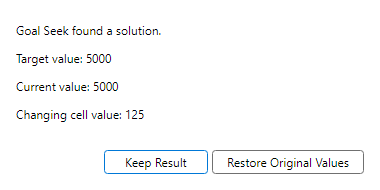
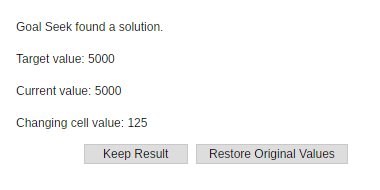
Fix FreeX Wave125 Goal Seek parity capture

diff --git a/tests/FreeX.App.Avalonia.Tests/ParityCaptureTests.cs b/tests/FreeX.App.Avalonia.Tests/ParityCaptureTests.cs
@@ -83,6 +83,91 @@ public sealed class ParityCaptureTests
     }
 
     [Fact]
+    public void LinuxParityCaptureHarness_UsesBoundedForegroundContainerContract()
+    {
+        var source = ReadLinuxParityCaptureHarnessSource();
+
+        source.Should().Contain("--entrypoint /bin/bash");
+        source.Should().Contain("$Image /work/container-run.sh");
+        source.Should().Contain("timeout --signal=TERM --kill-after=5s");
+        source.Should().Contain("capture_validated=true");
+        source.Should().Contain("docker stop --time 5 $name");
+        source.Should().Contain("docker rm -f $name");
+        source.Should().NotContain("$Image bash /work/container-run.sh");
+    }
+
+    [Fact]
+    public void LinuxParityCaptureHarness_RejectsUnsafeSurfaceIdsBeforeBashExpansion()
+    {
+        var source = ReadLinuxParityCaptureHarnessSource();
+
+        source.Should().Contain("$SurfaceId -notmatch '^[A-Za-z0-9][A-Za-z0-9._-]{0,127}$'");
+        source.Should().Contain("$validatedSurfaceId = $SurfaceId");
+        source.Should().Contain("$targetPngFileName = \"$validatedSurfaceId.png\"");
+        source.Should().Contain("$runScript = $runScript.Replace('__SURFACE__', $validatedSurfaceId)");
+        source.Should().Contain("$runScript = $runScript.Replace('__TARGET_PNG__', $targetPngFileName)");
+        source.Should().Contain("rm -f /work/manifest.json /work/__TARGET_PNG__ /work/run-result.txt");
+        source.Should().NotContain("rm -f /work/manifest.json /work/dialog.GoalSeekStatus.png");
+    }
+
+    [Fact]
+    public void LinuxParityCaptureHarness_RequiresExactValidationResultMarkers()
+    {
+        var source = ReadLinuxParityCaptureHarnessSource();
+
+        source.Should().Contain("$resultLines -contains \"app_exit=0\"");
+        source.Should().Contain("$resultLines -contains \"capture_validated=true\"");
+        source.Should().Contain("Capture container did not report app_exit=0 and capture_validated=true.");
+        source.Should().Contain("if (-not (Test-Path -LiteralPath $resultPath -PathType Leaf))");
+    }
+
+    [Fact]
+    public async Task TargetedGoalSeekStatusCapture_WritesNonBlank380x190Png()
+    {
+        var outputDirectory = Path.Combine(
+            Path.GetTempPath(),
+            "freex-goalseek-status-capture-" + Guid.NewGuid().ToString("N"));
+
+        try
+        {
+            await Session.Dispatch(async () =>
+            {
+                var window = new MainWindow([]);
+                try
+                {
+                    window.Show();
+                    window.Measure(new global::Avalonia.Size(1120, 720));
+                    window.Arrange(new global::Avalonia.Rect(0, 0, 1120, 720));
+                    window.UpdateLayout();
+
+                    var results = await window.CaptureParitySurfacesAsync(
+                        outputDirectory,
+                        targetSurfaceId: "dialog.GoalSeekStatus");
+
+                    results.Should().ContainSingle(result => result.Id == "dialog.GoalSeekStatus");
+                    var result = results.Single();
+                    result.Captured.Should().BeTrue(result.Note);
+
+                    var pngPath = Path.Combine(outputDirectory, result.PngFileName);
+                    AssertCapturedPng(outputDirectory, result);
+                    ReadPngDimensions(pngPath).Should().Be((380, 190));
+                    new FileInfo(pngPath).Length.Should().BeGreaterThan(1000,
+                        "the targeted dialog PNG must contain rendered content, not only a minimal blank frame");
+                }
+                finally
+                {
+                    if (window.IsVisible)
+                        window.Close();
+                }
+            }, CancellationToken.None);
+        }
+        finally
+        {
+            TryDeleteDirectory(outputDirectory);
+        }
+    }
+
+    [Fact]
     public void InteractionDialogRoutes_MapEveryAuthoritativeCatalogRow()
     {
         var catalog = InteractionSurfaceCatalog.Dialogs;
@@ -796,6 +881,16 @@ public sealed class ParityCaptureTests
         }
 
         return starts;
+    }
+
+    private static string ReadLinuxParityCaptureHarnessSource()
+    {
+        var directory = new DirectoryInfo(AppContext.BaseDirectory);
+        while (directory is not null && !File.Exists(Path.Combine(directory.FullName, "FreeX.slnx")))
+            directory = directory.Parent;
+
+        directory.Should().NotBeNull("the test output should remain inside the repository");
+        return File.ReadAllText(Path.Combine(directory!.FullName, "tools", "Run-LinuxParityCapture.ps1"));
     }
 
     private static void TryDeleteDirectory(string path)

diff --git a/docs/parity/dialog-visual-evidence-summary.md b/docs/parity/dialog-visual-evidence-summary.md
@@ -62,7 +62,6 @@ Outliers are ranked by a deterministic triage score: normalized 32x32 ARGB sampl
 
 | Surface id | WPF logical size | Avalonia logical size | Raw PNG sizes | Bucket | Evidence flag | Score | Sample delta | Luma delta | Non-bg delta |
 | --- | ---: | ---: | --- | --- | --- | ---: | ---: | ---: | ---: |
-| dialog.GoalSeekStatus | 380x190 | 380x190 | 380x190 px @ 96 DPI vs 380x190 px @ 96 DPI |  |  | 0.089 | 0.029 | 0.012 | 0.047 |
 | dialog.AddWatch | 360x170 | 360x170 | 540x255 px @ 144 DPI vs 360x170 px @ 96 DPI |  |  | 0.088 | 0.054 | 0.000 | 0.033 |
 | dialog.FormatCells.Alignment | 620x540 | 620x540 | 620x540 px @ 96 DPI vs 620x540 px @ 96 DPI |  |  | 0.087 | 0.015 | 0.006 | 0.065 |
 | dialog.CreateTable | 360x190 | 360x190 | 540x285 px @ 144 DPI vs 360x190 px @ 96 DPI |  |  | 0.086 | 0.040 | 0.004 | 0.041 |
@@ -72,6 +71,7 @@ Outliers are ranked by a deterministic triage score: normalized 32x32 ARGB sampl
 | dialog.AllowEditRanges | 430x420 | 430x420 | 430x420 px @ 96 DPI vs 430x420 px @ 96 DPI |  |  | 0.079 | 0.022 | 0.014 | 0.042 |
 | dialog.Sparkline | 380x280 | 380x280 | 380x280 px @ 96 DPI vs 380x280 px @ 96 DPI |  |  | 0.077 | 0.054 | 0.001 | 0.022 |
 | dialog.SelectDataSource | 620x500 | 620x500 | 930x750 px @ 144 DPI vs 620x500 px @ 96 DPI |  |  | 0.075 | 0.036 | 0.006 | 0.033 |
+| dialog.ConditionalFormatManage | 560x420 | 560x420 | 840x630 px @ 144 DPI vs 560x420 px @ 96 DPI |  |  | 0.074 | 0.045 | 0.000 | 0.028 |
 
 ## Scale-Aware Dimension Mismatch Details
 
@@ -119,7 +119,7 @@ These rows have a DPI-normalized checked-in PNG size that disagrees with the dia
 | dialog.FormatCells.Protection | dialog.FormatCells.Protection.png | 620x540 | 620x540 px @ 96 DPI | True | dialog.FormatCells.Protection.png | 620x540 | 620x540 px @ 96 DPI | True | True | 0.015 |
 | dialog.FormatChartArea | dialog.FormatChartArea.png | 420x590 | 630x885 px @ 144 DPI | True | dialog.FormatChartArea.png | 420x590 | 420x590 px @ 96 DPI | True | True | 0.060 |
 | dialog.GoalSeek | dialog.GoalSeek.png | 380x210 | 380x210 px @ 96 DPI | True | dialog.GoalSeek.png | 380x210 | 380x210 px @ 96 DPI | True | True | 0.054 |
-| dialog.GoalSeekStatus | dialog.GoalSeekStatus.png | 380x190 | 380x190 px @ 96 DPI | True | dialog.GoalSeekStatus.png | 380x190 | 380x190 px @ 96 DPI | True | True | 0.089 |
+| dialog.GoalSeekStatus | dialog.GoalSeekStatus.png | 380x190 | 380x190 px @ 96 DPI | True | dialog.GoalSeekStatus.png | 380x190 | 380x190 px @ 96 DPI | True | True | 0.037 |
 | dialog.GoTo | dialog.GoTo.png | 420x320 | 420x320 px @ 96 DPI | True | dialog.GoTo.png | 420x320 | 420x320 px @ 96 DPI | True | True | 0.066 |
 | dialog.GoToSpecial | dialog.GoToSpecial.png | 430x438 | 430x438 px @ 96 DPI | True | dialog.GoToSpecial.png | 430x438 | 430x438 px @ 96 DPI | True | True | 0.034 |
 | dialog.HeaderFooterDialog | dialog.HeaderFooterDialog.png | 760x600 | 760x600 px @ 96 DPI | True | dialog.HeaderFooterDialog.png | 760x600 | 760x600 px @ 96 DPI | True | True | 0.034 |

diff --git a/docs/parity/avalonia-parity-wave125-freex-goalseek-capture-20260803.md b/docs/parity/avalonia-parity-wave125-freex-goalseek-capture-20260803.md
@@ -1,0 +1,53 @@
+# Avalonia Parity Wave125: FreeX Goal Seek Status Capture
+
+Date: 2026-08-03
+
+## Diagnosis and fix
+
+The current Avalonia source route was valid: `MainWindow.ParityCapture.cs`
+selects `dialog.GoalSeekStatus` and opens the fixture-backed
+`ShowGoalSeekStatusParityDialogAsync` route. A focused headless behavior test
+now proves that this route writes one nonblank `380x190` PNG.
+
+Wave124's Linux attempts failed in the container wrapper. The reusable
+`freex-linux-interactive:ubuntu24.04` image has
+`/usr/local/bin/freex-linux-interactive` as its entrypoint, so passing
+`bash /work/container-run.sh` after the image did not run the capture script.
+The fixed runner uses an explicit `/bin/bash` entrypoint and invokes the mounted
+script directly. It runs `xvfb-run` and the app in the foreground, keeps the
+app/Xvfb log, validates the app exit, manifest, PNG signature, nonblank size,
+and dimensions, and enforces a 120-second timeout. Cleanup stops and removes
+only the exact unique container name supplied to that run.
+
+## Fresh evidence
+
+- Exact container: `freex-wave125-goalseek-capture-20260803-avalonia-r5`
+- App exit: `0`
+- Capture: nonblank `380x190` PNG at 96 DPI
+- Manifest: one captured `dialog.GoalSeekStatus` surface
+- Scratch run directories: removed after promotion
+- Promoted PNG: `docs/parity/dialog-visual-assets/avalonia-capture/dialog.GoalSeekStatus.png`
+- Promoted metadata: `docs/parity/dialog-visual-assets/avalonia-capture/manifest.json`
+
+The current-source WPF/Avalonia comparer reports `2.0871075708061%` mean
+pixel difference for the paired surface. Wave124's recorded baseline was
+`3.255188%`, an improvement of `1.1680804291939` percentage points, or
+`35.8836549284987%` relative. The regenerated dialog summary reports matching
+logical and raw dimensions, `isNonBlank=true` on both sides, a triage score of
+`0.036590`, and zero visual-review candidates across all 94 paired surfaces.
+
+## Verification
+
+- Focused `ParityCaptureTests`: 4 passed, including the targeted Goal Seek
+  Status capture behavior test.
+- Fresh bounded Docker capture: passed with `app_exit=0` and
+  `capture_validated=true`.
+- Dialog visual summary regenerated: 94 paired surfaces, zero nonblank PNG
+  failures, zero paired dimension mismatches, zero stale expected-size rows.
+
+## Residuals
+
+The comparer was run with the single fresh Linux target against the canonical
+WPF manifest, so its process exit remains nonzero only because the dialog-only
+manifests omit the unrelated native Name Box popup contract. No synthetic
+resizing, stale promotion, or unbounded timeout was used.
